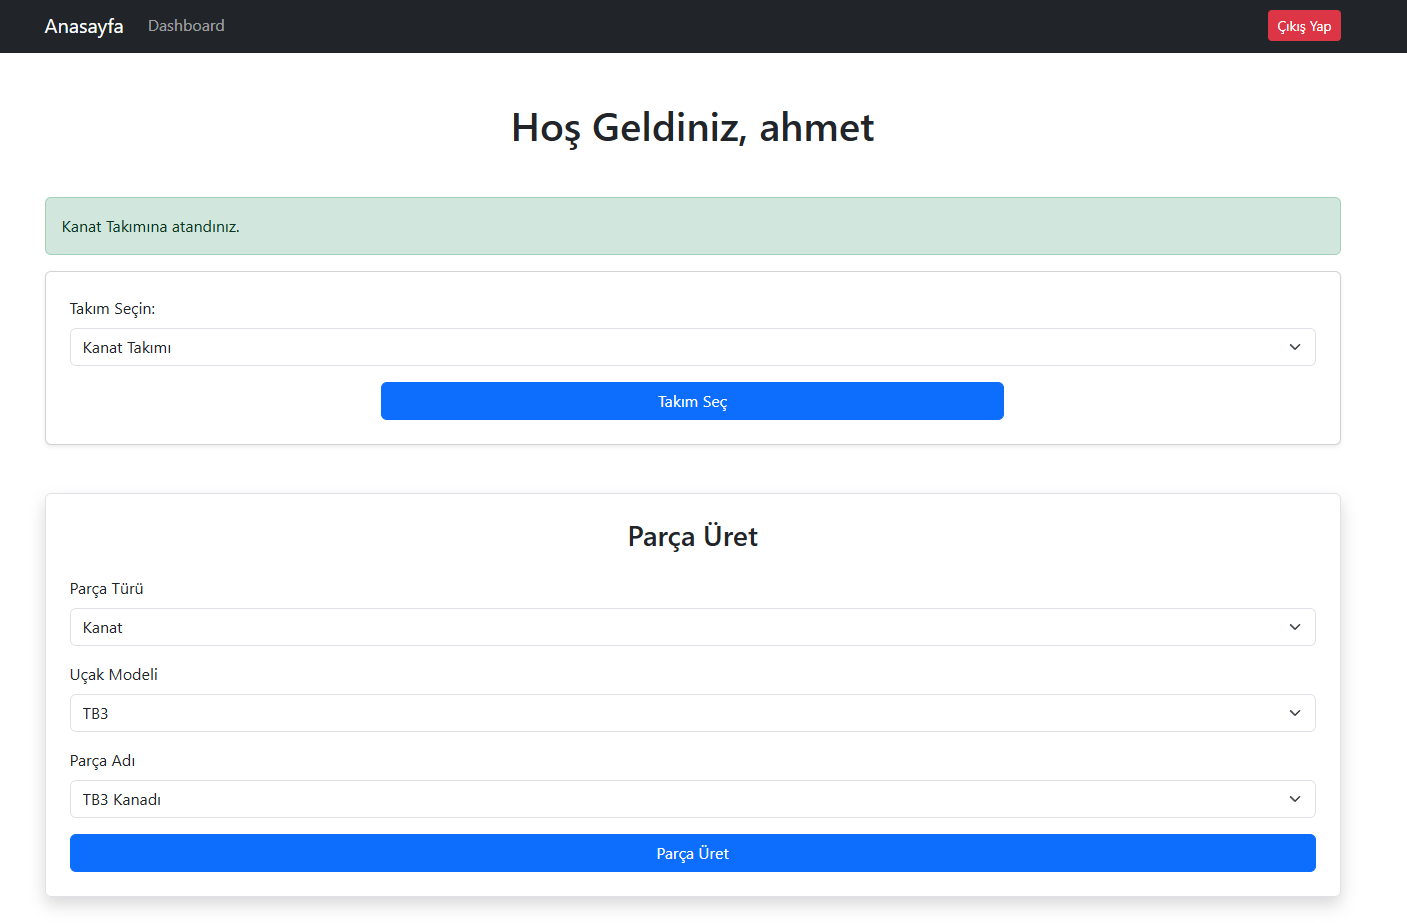
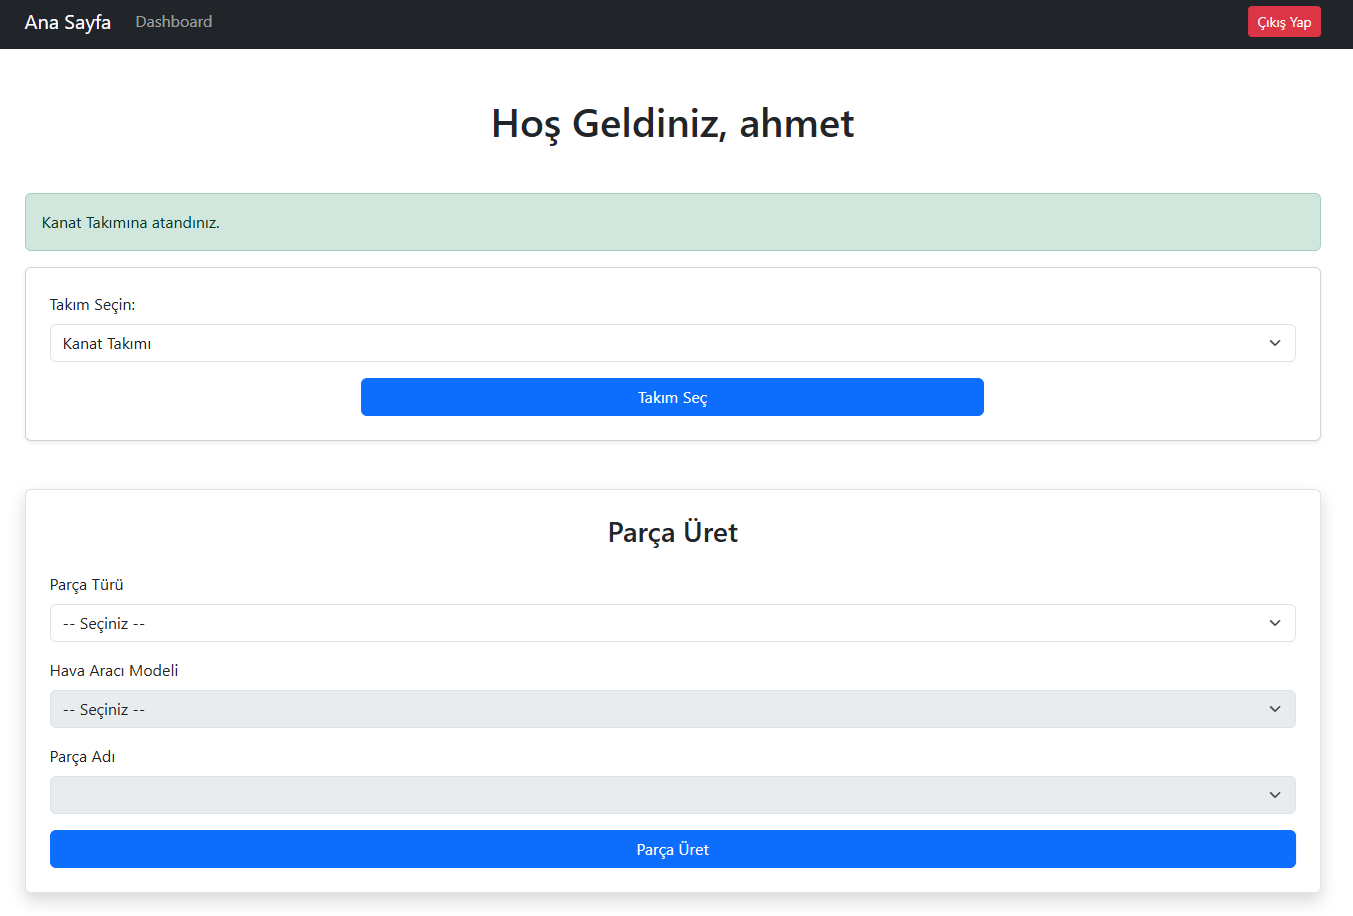
part list view fixed and names have been edited.

diff --git a/aeroproduct/templates/product/dashboard.html b/aeroproduct/templates/product/dashboard.html
@@ -16,7 +16,7 @@
 
 <nav class="navbar navbar-expand-lg navbar-dark bg-dark">
     <div class="container">
-        <a class="navbar-brand" href="/">Anasayfa</a>
+        <a class="navbar-brand" href="/">Ana Sayfa</a>
         <button class="navbar-toggler" type="button" data-bs-toggle="collapse" data-bs-target="#navbarNav" aria-controls="navbarNav" aria-expanded="false" aria-label="Toggle navigation">
             <span class="navbar-toggler-icon"></span>
         </button>
@@ -95,9 +95,9 @@
                 </select>
             </div>
 
-            <!-- Uçak Modeli -->
+            <!-- Hava Aracı Modeli -->
             <div class="mb-3">
-                <label for="aircraft_model" class="form-label">Uçak Modeli</label>
+                <label for="aircraft_model" class="form-label">Hava Aracı Modeli</label>
                 <select id="aircraft_model" name="aircraft_model" class="form-select" disabled>
                     <option value="">-- Seçiniz --</option>
                     <option value="1">TB2</option>
@@ -133,9 +133,9 @@
 
     <div class="container mt-5">
         <div class="child w-100">
-            <!-- Uçak Modeli Seçim Bölümü -->
+            <!-- Hava Aracı Modeli Seçim Bölümü -->
             <div id="aircraft-selection">
-                <h3 class="mb-3">Uçak Modeli Seçin</h3>
+                <h3 class="mb-3">Hava Aracı Modeli Seçin</h3>
                 <div class="form-group">
                     <label for="aircraft-model-select">Hava Aracı Modeli</label>
                     <select id="aircraft-model-select" class="form-control">
@@ -150,10 +150,10 @@
                 </div>
             </div>
             
-            <!-- Uçak Listesi -->
+            <!-- Hava Aracı Listesi -->
             <div id="aircraft-list" class="mt-5 row">
                 <div class="col-12">
-                    <h4 class="mb-3">Uçaklar</h4>
+                    <h4 class="mb-3">Hava Araçları</h4>
                 </div>
             </div>
         </div>
@@ -169,12 +169,12 @@
         const userTeamId = parseInt(teamInfoDiv.getAttribute("data-team-id")); // Takım ID'sini al
 
         const aircraftProductionDiv = document.getElementById("aircraft-selection");
-        const aircraftListDiv = document.getElementById("aircraft-list"); // Uçakların listeleneceği div
+        const aircraftListDiv = document.getElementById("aircraft-list"); // Hava Araçlarının listeleneceği div
         //#endregion
     
         //#region Montaj Takımı için Hava Aracı Listeleme
         
-        // Eğer kullanıcı id'si 5 (montaj takımı) değilse, üretim butonunu ve uçak listesine dair her şeyi gizle
+        // Eğer kullanıcı id'si 5 (montaj takımı) değilse, üretim butonunu ve hava aracı listesine dair her şeyi gizle
         if (userTeamId !== 5) {
             aircraftProductionDiv.style.display = "none";
             aircraftListDiv.style.display = "none"; // Eğer montaj takımı değilse listeyi gizle
@@ -184,11 +184,11 @@
             const csrfToken = document.querySelector('[name=csrfmiddlewaretoken]').value;
             return csrfToken;
             }
-            // Kullanıcı montaj takımıysa, uçakları listele
+            // Kullanıcı montaj takımıysa, listele
             fetch('/dashboard/api/aircraft/')
         .then(response => response.json())
         .then(data => {
-            const aircraftListDiv = document.getElementById("aircraft-list"); // Uçakların listeleneceği div
+            const aircraftListDiv = document.getElementById("aircraft-list"); // Hava araçlarının listeleneceği div
 
             if (data.assemblies && data.assemblies.length > 0) {
                 data.assemblies.forEach(assembly => {
@@ -233,16 +233,16 @@
             } else {
                 aircraftListDiv.innerHTML = `
                     <div class="col-12 text-center">
-                        <p class="text-muted">Henüz üretilen uçak yok.</p>
+                        <p class="text-muted">Henüz üretilen hava aracı yok.</p>
                     </div>
                 `;
             }
         })
         .catch(error => {
-            console.error("Uçakları getirirken bir hata oluştu:", error);
+            console.error("Hava araçlarını getirirken bir hata oluştu:", error);
             aircraftListDiv.innerHTML = `
                 <div class="col-12 text-center">
-                    <p class="text-danger">Uçaklar listelenemedi. Lütfen tekrar deneyin.</p>
+                    <p class="text-danger">Hava Araçları listelenemedi. Lütfen tekrar deneyin.</p>
                 </div>
             `;
         });
@@ -250,7 +250,7 @@
                 
             });
 
-            // Uçak listeleme işlemi (backend ile iletişim kurarak uçakları listele)
+            // Hava Aracı listeleme işlemi (backend ile iletişim kurarak hava araçlarını listele)
             function listAircraft(aircraftId) {
             fetch(`/dashboard/api/aircraft/${aircraftId}/list/`, {
                 method: 'POST',
@@ -262,8 +262,8 @@
             })
             .then(response => response.json())
             .then(data => {
-                if (data.message === "Uçak başarıyla listeye alındı.") {
-                    alert("Uçak başarıyla listeye alındı.");
+                if (data.message === "Hava Aracı başarıyla listeye alındı.") {
+                    alert("Hava Aracı başarıyla listeye alındı.");
                     location.reload();  // Sayfayı yenileyerek değişiklikleri göster
                 } else {
                     alert("Bir hata oluştu.");
@@ -286,8 +286,8 @@
             })
             .then(response => response.json())
             .then(data => {
-                if (data.message === "Uçak başarıyla yayından kaldırıldı.") {
-                    alert("Uçak başarıyla yayından kaldırıldı.");
+                if (data.message === "Hava Aracı başarıyla yayından kaldırıldı.") {
+                    alert("Hava Aracı başarıyla yayından kaldırıldı.");
                     location.reload();  // Sayfayı yenileyerek değişiklikleri göster
                 } else {
                     alert("Bir hata oluştu.");
@@ -317,10 +317,10 @@
 
         //#region Hava Aracı üretme işlemi için fonksiyon
         function produceAircraft() {
-        const aircraftModelId = document.getElementById('aircraft-model-select').value;  // Uçak modelinin ID'si
+        const aircraftModelId = document.getElementById('aircraft-model-select').value;  // Hava Aracı modelinin ID'si
         const csrfToken = document.querySelector('meta[name="csrf-token"]').getAttribute('content');  // CSRF token
         console.log(aircraftModelId);
-        // Seçilen uçak modeline ait parçalar
+        // Seçilen Hava Aracı modeline ait parçalar
         const selectedParts = {
             'Kanat': ["TB2 Kanadı", "TB3 Kanadı", "AKINCI Kanadı", "KIZILELMA Kanadı"],
             'Gövde': ["TB2 Gövdesi", "TB3 Gövdesi", "AKINCI Gövdesi", "KIZILELMA Gövdesi"],
@@ -339,7 +339,7 @@
         console.log(producedParts);
         console.log(selectedParts);
 
-        // Uçak Üretim isteği gönderme
+        // Hava Aracı Üretim isteği gönderme
         fetch('http://localhost:8000/dashboard/api/aircraft-production/', {
         method: 'POST',
         headers: {
@@ -353,8 +353,8 @@
     })
         .then(response => response.json())
         .then(data => {
-            if (data.message === "Uçak başarıyla üretildi.") {
-                alert("Uçak başarıyla üretildi!");
+            if (data.message === "Hava Aracı başarıyla üretildi.") {
+                alert("Hava Aracı başarıyla üretildi!");
             } else if (data.missing_parts) {
                 // missing_parts kontrolü
                 const missingPartsMessage = data.missing_parts.length > 0
@@ -367,7 +367,7 @@
         })
         .catch(error => {
             console.error("Hata:", error);
-            alert("Uçak üretme işlemi sırasında bir hata oluştu.");
+            alert("Hava Aracı üretme işlemi sırasında bir hata oluştu.");
         });
         }
 
@@ -388,7 +388,7 @@
         })
         .then(response => response.json())
         .then(data => {
-            console.log(data);  // Burada data objesini konsola yazdırın
+            //console.log(data); 
         if (data.parts) {
             const partsList = data.parts;
             const partsUl = document.getElementById("parts-ul");
@@ -397,7 +397,6 @@
             // Parçaları listeye ekle
             partsList.forEach(part => {
                 const li = document.createElement("li");
-
                 // Quantity'ye göre background renk ayarla
                 if (part.quantity === 0) {
                     li.classList.add("list-group-item", "list-group-item-danger"); // light red
@@ -407,7 +406,7 @@
                     li.classList.add("list-group-item");
                 }
 
-                li.textContent = `${part.part_name} (${part.part_type}) - Uçak Modeli: ${part.aircraft_model}`;
+                li.textContent = `${part.part_name} (${part.part_type}) - Hava Aracı Modeli: ${part.aircraft_model}`;
 
                 // Silme butonu ekliyoruz
                 const deleteButton = document.createElement("button");
@@ -554,7 +553,7 @@
         const partName = document.getElementById('part_name').value;
         const aircraftModel = document.getElementById('aircraft_model').value;
         const teamId = document.getElementById('team-id-container').textContent.trim();
-        console.log(teamId);
+        //console.log(teamId);
 
         // JSON verisini oluştur
         const payload = {
@@ -563,7 +562,7 @@
             aircraft_model: aircraftModel,
             team_id: teamId
         };
-        console.log('Payload:', payload);
+        //console.log('Payload:', payload);
         fetch('/api/produce-part/', {
             method: 'POST',
             headers: {

diff --git a/product/views.py b/product/views.py
@@ -107,17 +107,6 @@ def produce_part(request):
 
     return render(request, 'produce_part.html', {'aircraft_models': aircraft_models})
 
-# def home(request):
-#     if request.user.is_authenticated:
-#         # Kullanıcı giriş yapmışsa farklı bir şablon göster
-#         return render(request, 'users/dashboard.html', {'user': request.user})
-#     else:
-#         # Giriş yapmamış kullanıcılar için varsayılan anasayfa
-#         listed_aircrafts = Assembly.objects.filter(is_listed=True)
-
-#         # Veriyi home.html şablonuna gönder
-#         return render(request, 'home.html', {'listed_aircrafts': listed_aircrafts})
-
 def home(request):
     if request.user.is_authenticated:
         # Kullanıcı giriş yapmışsa farklı bir şablon göster
@@ -174,6 +163,7 @@ class ListPartsView(APIView):
                 "part_type": part.part_type,
                 "part_name": part.part_name,
                 "aircraft_model": part.aircraft_model.name,  # Aircraft model adı
+                "quantity": part.quantity,
             }
             for part in parts
         ]
@@ -208,7 +198,7 @@ class ProducePartView(APIView):
         try:
             aircraft_model = AircraftModel.objects.get(id=aircraft_model)
         except AircraftModel.DoesNotExist:
-            return Response({"message": "Geçersiz uçak modeli."}, status=status.HTTP_400_BAD_REQUEST)
+            return Response({"message": "Geçersiz hava aracı modeli."}, status=status.HTTP_400_BAD_REQUEST)
         
         team = Team.objects.get(id=team_id)
         if not team.can_manage_parts:
@@ -239,16 +229,16 @@ class ProducePartView(APIView):
 
 class AircraftProductionView(APIView):
     def post(self, request, *args, **kwargs):
-        # Gelen uçak modeli ID'si
+        # Gelen Hava Aracı modeli ID'si
         aircraft_model_id = request.data.get("aircraft_model_id")
 
-        # Uçak modelini kontrol et
+        # Hava Aracı modelini kontrol et
         try:
             aircraft_model = AircraftModel.objects.get(id=aircraft_model_id)
         except AircraftModel.DoesNotExist:
-            return Response({"message": "Geçersiz uçak modeli."}, status=status.HTTP_400_BAD_REQUEST)
+            return Response({"message": "Geçersiz Hava Aracı modeli."}, status=status.HTTP_400_BAD_REQUEST)
 
-        # Uçak modeline uygun parçaların isimleri
+        # Hava Aracı modeline uygun parçaların isimleri
         required_part_names = [
             f"{aircraft_model.name} Kanadı",
             f"{aircraft_model.name} Gövdesi",
@@ -290,7 +280,7 @@ class AircraftProductionView(APIView):
         assembly.save()
 
         return Response(
-            {"message": "Uçak başarıyla üretildi ve kaydedildi."},
+            {"message": "Hava Aracı başarıyla üretildi ve kaydedildi."},
             status=status.HTTP_200_OK,
         )
 
@@ -316,9 +306,9 @@ class AircraftListView(APIView):
             assembly = Assembly.objects.get(id=aircraft_id)
             assembly.is_listed = True  # Uçağı listele
             assembly.save()
-            return Response({"message": "Uçak başarıyla listeye alındı."}, status=status.HTTP_200_OK)
+            return Response({"message": "Hava Aracı başarıyla listeye alındı."}, status=status.HTTP_200_OK)
         except Assembly.DoesNotExist:
-            return Response({"message": "Uçak bulunamadı."}, status=status.HTTP_404_NOT_FOUND)
+            return Response({"message": "Hava Aracı bulunamadı."}, status=status.HTTP_404_NOT_FOUND)
 
 class AircraftRemoveView(APIView):
     def post(self, request, *args, **kwargs):
@@ -327,8 +317,8 @@ class AircraftRemoveView(APIView):
             assembly = Assembly.objects.get(id=aircraft_id)
             assembly.is_listed = False  # Uçağı yayından kaldır
             assembly.save()
-            return Response({"message": "Uçak başarıyla yayından kaldırıldı."}, status=status.HTTP_200_OK)
+            return Response({"message": "Hava Aracı başarıyla yayından kaldırıldı."}, status=status.HTTP_200_OK)
         except Assembly.DoesNotExist:
-            return Response({"message": "Uçak bulunamadı."}, status=status.HTTP_404_NOT_FOUND)
+            return Response({"message": "Hava Aracı bulunamadı."}, status=status.HTTP_404_NOT_FOUND)
 
 

diff --git a/README.md b/README.md
@@ -141,6 +141,9 @@ Bu projede Django ve PostgreSQL teknolojilerini daha önce kullanmamış olmam n
 ### *Dashboard 2*
 ![Dashboard 2](static/project-images/4.png)
 
+### *Dashboard 3*
+![Dashboard 3](static/project-images/7.png)
+
 ### *Giriş ve Kayıt Ol*
 ![Giriş ve Kayıt Ol](static/project-images/3.png)
 
